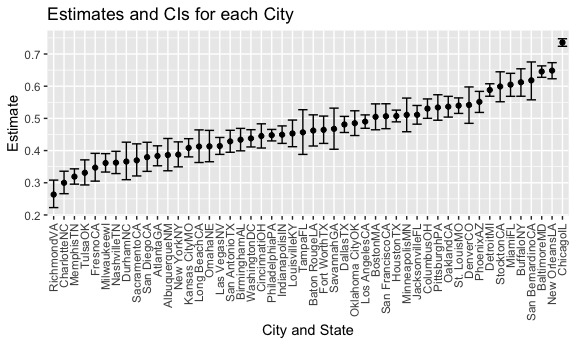
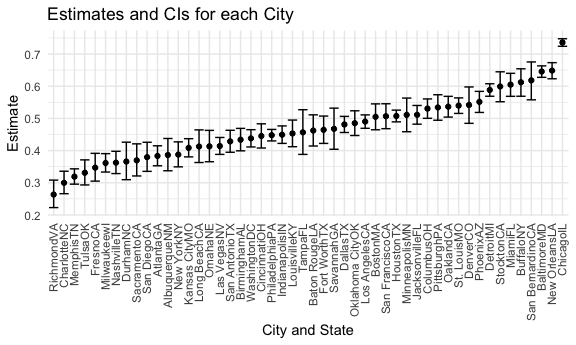
Finishing Problem 2 and 3

diff --git a/p8105_hw5_xj2278.md b/p8105_hw5_xj2278.md
@@ -3,24 +3,22 @@ Homework 5
 
 ``` r
 library(tidyverse)
-```
 
-    ## ── Attaching packages ─────────────────────────────────────── tidyverse 1.3.1 ──
 
-    ## ✓ ggplot2 3.3.5     ✓ purrr   0.3.4
-    ## ✓ tibble  3.1.4     ✓ dplyr   1.0.7
-    ## ✓ tidyr   1.1.4     ✓ stringr 1.4.0
-    ## ✓ readr   2.0.2     ✓ forcats 0.5.1
-
-    ## ── Conflicts ────────────────────────────────────────── tidyverse_conflicts() ──
-    ## x dplyr::filter() masks stats::filter()
-    ## x dplyr::lag()    masks stats::lag()
-
-``` r
 knitr::opts_chunk$set(
   fig.width = 6, 
   fig.asp = .6,
   out.width = "90%")
+
+theme_set(theme_minimal() + theme(legend.position = "bottom"))
+
+options(
+  ggplot2.continuous.colour = "viridis",
+  ggplot2.continuous.fill = "viridis"
+)
+
+scale_colour_discrete = scale_colour_viridis_d
+scale_fill_discrete = scale_fill_viridis_d
 ```
 
 # Problem 1
@@ -174,3 +172,106 @@ results_df %>%
 ```
 
 <img src="p8105_hw5_xj2278_files/figure-gfm/unnamed-chunk-6-1.png" width="90%" />
+
+## Problem 2
+
+#### Create a tidy dataframe containing data from all participants, including the subject ID, arm, and observations over time:
+
+``` r
+longitudinal = tibble(
+  files = list.files("./data/problem2_data/")) %>% 
+  mutate(data = map(.x = files, ~ read_csv(paste0("./data/problem2_data/", .x)))) %>% 
+  unnest(cols = data) %>% 
+  separate(files, into = c("arm", "subject_id"), sep = "\\_") %>% 
+  mutate(
+    subject_id = str_replace(subject_id, "\\.csv", ""), 
+    subject_id = str_c(arm, subject_id, sep = "_"),
+    arm = ifelse(arm == "con", "control", "experimental")) %>% 
+  select(subject_id, everything())
+
+knitr::kable(longitudinal)
+```
+
+| subject_id | arm          | week_1 | week_2 | week_3 | week_4 | week_5 | week_6 | week_7 | week_8 |
+|:-----------|:-------------|-------:|-------:|-------:|-------:|-------:|-------:|-------:|-------:|
+| con_01     | control      |   0.20 |  -1.31 |   0.66 |   1.96 |   0.23 |   1.09 |   0.05 |   1.94 |
+| con_02     | control      |   1.13 |  -0.88 |   1.07 |   0.17 |  -0.83 |  -0.31 |   1.58 |   0.44 |
+| con_03     | control      |   1.77 |   3.11 |   2.22 |   3.26 |   3.31 |   0.89 |   1.88 |   1.01 |
+| con_04     | control      |   1.04 |   3.66 |   1.22 |   2.33 |   1.47 |   2.70 |   1.87 |   1.66 |
+| con_05     | control      |   0.47 |  -0.58 |  -0.09 |  -1.37 |  -0.32 |  -2.17 |   0.45 |   0.48 |
+| con_06     | control      |   2.37 |   2.50 |   1.59 |  -0.16 |   2.08 |   3.07 |   0.78 |   2.35 |
+| con_07     | control      |   0.03 |   1.21 |   1.13 |   0.64 |   0.49 |  -0.12 |  -0.07 |   0.46 |
+| con_08     | control      |  -0.08 |   1.42 |   0.09 |   0.36 |   1.18 |  -1.16 |   0.33 |  -0.44 |
+| con_09     | control      |   0.08 |   1.24 |   1.44 |   0.41 |   0.95 |   2.75 |   0.30 |   0.03 |
+| con_10     | control      |   2.14 |   1.15 |   2.52 |   3.44 |   4.26 |   0.97 |   2.73 |  -0.53 |
+| exp_01     | experimental |   3.05 |   3.67 |   4.84 |   5.80 |   6.33 |   5.46 |   6.38 |   5.91 |
+| exp_02     | experimental |  -0.84 |   2.63 |   1.64 |   2.58 |   1.24 |   2.32 |   3.11 |   3.78 |
+| exp_03     | experimental |   2.15 |   2.08 |   1.82 |   2.84 |   3.36 |   3.61 |   3.37 |   3.74 |
+| exp_04     | experimental |  -0.62 |   2.54 |   3.78 |   2.73 |   4.49 |   5.82 |   6.00 |   6.49 |
+| exp_05     | experimental |   0.70 |   3.33 |   5.34 |   5.57 |   6.90 |   6.66 |   6.24 |   6.95 |
+| exp_06     | experimental |   3.73 |   4.08 |   5.40 |   6.41 |   4.87 |   6.09 |   7.66 |   5.83 |
+| exp_07     | experimental |   1.18 |   2.35 |   1.23 |   1.17 |   2.02 |   1.61 |   3.13 |   4.88 |
+| exp_08     | experimental |   1.37 |   1.43 |   1.84 |   3.60 |   3.80 |   4.72 |   4.68 |   5.70 |
+| exp_09     | experimental |  -0.40 |   1.08 |   2.66 |   2.70 |   2.80 |   2.64 |   3.51 |   3.27 |
+| exp_10     | experimental |   1.09 |   2.80 |   2.80 |   4.30 |   2.25 |   6.57 |   6.09 |   4.64 |
+
+#### Make a spaghetti plot showing observations on each subject over time:
+
+``` r
+plot = 
+  longitudinal %>% 
+  pivot_longer(
+    cols = week_1:week_8,
+    names_to = "time",
+    values_to = "data"
+  )
+
+plot %>% 
+  ggplot(aes(x = time, y = data, group = subject_id, color = arm)) +
+  geom_point(size = 0.7) +
+  geom_line() +
+  labs(
+    title = "Observations on Each Subject over Time", 
+    x = "Time (weeks)", 
+    y = "Observation"
+  )
+```
+
+<img src="p8105_hw5_xj2278_files/figure-gfm/unnamed-chunk-8-1.png" width="90%" />
+
+On week one, the observations from the control arm and experimental arm
+do not show significant differences. Over time, the observations from
+the control arm tend to be more stable, while the observations from the
+experimental arm are steadily increasing. On week eight, all subjects in
+the experimental arm have higher values of observations than all
+subjects in the control arm.
+
+## Problem 3
+
+Loads the iris dataset:
+
+``` r
+set.seed(10)
+
+iris_with_missing = iris %>% 
+  map_df(~replace(.x, sample(1:150, 20), NA)) %>%
+  mutate(Species = as.character(Species))
+```
+
+#### Write a function to fill in missing values
+
+``` r
+fill_in_missing = function(x){
+  if(is.numeric(x)){
+    replace(x, is.na(x), mean(x, na.rm = TRUE))
+  }
+  
+  else if(is.character(x)){
+    replace(x, is.na(x), "virginica")
+  }
+}
+
+filled_iris = 
+  iris_with_missing %>% 
+  map_df(fill_in_missing) 
+```
